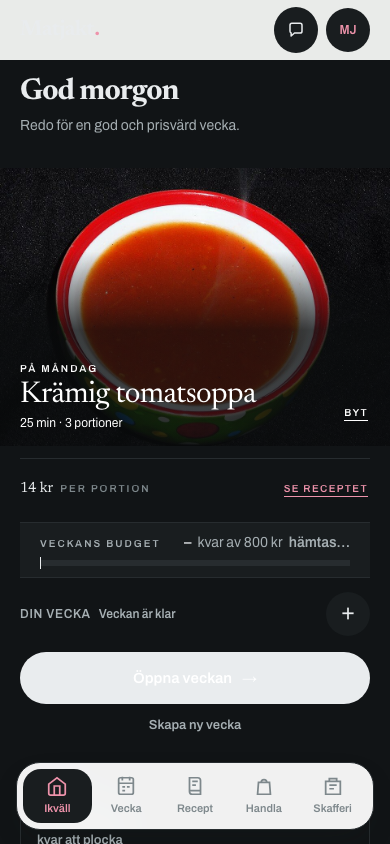
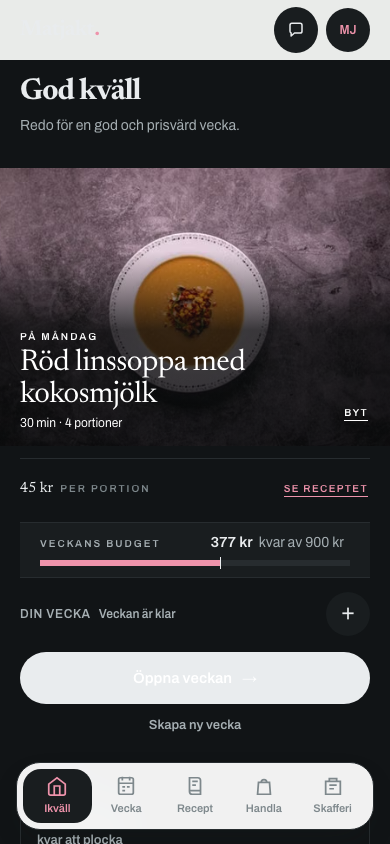
L1: skärmdumpar efter ombasering - foto, mörkt läge och ett recept utan foto

diff --git a/README.md b/README.md
@@ -1,6 +1,18 @@
 # Skärmdumpar för PR "L1: Ikväll blev ett fotokort"
 
-Fyra PNG:er, tagna med Playwright i 390×844 (mobil viewport), ljust och
-mörkt läge. Grenen finns BARA för att PR-beskrivningen ska kunna visa dem;
-den innehåller ingen kod, mergas aldrig, och kan raderas när PR:en är
-granskad.
+Sex PNG:er, tagna med Playwright i 390×844 (mobil viewport), ljust och mörkt
+läge. Grenen finns BARA för att PR-beskrivningen ska kunna visa dem; den
+innehåller ingen kod, mergas aldrig, och kan raderas när PR:en är granskad.
+
+| Fil | Vad den visar |
+|---|---|
+| `L1-fore-light.png` / `L1-fore-dark.png` | `main` före paketet: Ikväll som en rad |
+| `L1-efter-light.png` / `L1-efter-dark.png` | Ikväll som fotokort |
+| `L1-utan-foto-light.png` / `L1-utan-foto-dark.png` | samma skärm med ett recept UTAN foto, alltså M2:s reservkort som hjälteytans underlag |
+
+Mörkt läge ligger tills vidare bakom ett uttryckligt `[data-theme="dark"]`
+och inte bakom `prefers-color-scheme` (styles.css, etapp 3) — dumparna sätter
+därför attributet innan bilden tas.
+
+Rätten utan foto är Pitepalt med fläsk, en av de tio `middag`-rätter i
+receptbanken som inte har någon bild vi får publicera.
